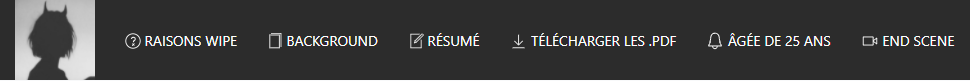
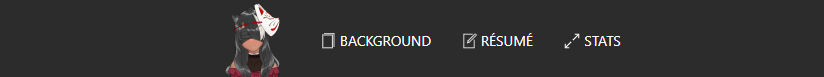
Update Alt.

Changed region(s): [[0.0, 0.0, 1.0, 1.0]]

diff --git a/index.html b/index.html
@@ -33,38 +33,20 @@
 		}
 		function dataBackground() {
 			currentURL = "/?view=background";
-			$('.data-swap').attr('src','https://docs.google.com/document/d/1q133ohRRzX3-YqD9idGtDM9sm_ifps2eFnPc_mV_Ka0/edit?usp=sharing');
+			$('.data-swap').attr('src','https://docs.google.com/document/d/1m-MmVZ6kml-2vOAQFPfzjsS22clPWGDEUk3xZhTg_T8/edit#heading=h.41pm4yap21i1');
 			window.history.pushState('background', 'Background de Mira Smejkalová', currentURL);
 			document.title = 'Background de Mira Smejkalová';
 		}
 		function dataResume() {
 			currentURL = "/?view=resume";
-			$('.data-swap').attr('src','https://docs.google.com/document/d/10tbM-yULa_7aInAmq-GIlfvZycwD9Ak0vPV-nldLTew/edit?usp=sharing');
+			$('.data-swap').attr('src','https://docs.google.com/document/d/1aFVUQ72P-MbMik5-ZvWpce86tVHiG4uZre8_BDshm5Y/edit');
 			window.history.pushState('resume', 'Résumé de Mira Smejkalová', currentURL);
 			document.title = 'Résumé de Mira Smejkalová';
 		}
-		function dataEScene() {
-			currentURL = "/?view=endscene";
-			$('.data-swap').attr('src','assets/html/endscene.html');
-			window.history.pushState('endscene', 'End Scene de Sasha Reed Messina', currentURL);
-			document.title = 'End Scene de Sasha Reed Messina';
-		}
-		function modalWipe() {
+		function modalStats() {
 			window.history.pushState('mc-modal', 'Modal: Close', currentURL);
 			setTimeout(function () {
-				window.history.pushState('mo-wipe', 'Modal: Wipe', currentURL+'&modal=wipe-1_2');
-			}, 200); // 0.20 seconds
-		}
-		function modalWipe2() {
-			window.history.pushState('mc-modal', 'Modal: Close', currentURL);
-			setTimeout(function () {
-		        window.history.pushState('mo-sasha', 'Modal: Sasha', currentURL+'&modal=wipe-2_2');
-		    }, 200); // 0.20 seconds
-		}
-		function modalDownload() {
-			window.history.pushState('mc-modal', 'Modal: Close', currentURL);
-			setTimeout(function () {
-				window.history.pushState('mo-download', 'Modal: Download', currentURL+'&modal=download');
+				window.history.pushState('mo-wipe', 'Modal: Stats', currentURL+'&modal=stats');
 			}, 200); // 0.20 seconds
 		}
 		function modalClose() {
@@ -82,9 +64,6 @@
 		} else if (getView == 'resume') {
 			document.title = 'Résumé de Mira Smejkalová';
 			currentURL = "/?view=resume";
-		} else if (getView == 'endscene') {
-			document.title = 'End Scene de Sasha Reed Messina';
-			currentURL = "/?view=endscene";
 		} else {
 			document.title = 'Introduction - Mira Smejkalová';
 			currentURL = "/?view=intro";
@@ -110,46 +89,33 @@
 </head>
 <body onload="itsHRP();">
 <nav class="uk-navbar-container uk-margin" style="background-color:#2c2c2c;color:white!important;" uk-navbar>
-    <div class="uk-navbar-left">
-        <a title="Retournez a l'introduction" uk-tooltip="title: Retournez a l'introduction" class="uk-navbar-item uk-logo" class="intro" onclick="dataIntro();">
-        	<img src="assets/img/986b62020ec24a66c083ae9bdff0d90f.jpg" alt="logo" width="80" height="80" draggable="false">
-        </a>
-        <ul class="uk-navbar-nav">
-            <li>
-	            <a title='Raisons de la demande de WIPE' uk-tooltip='title: Raisons de la demande de WIPE' rel="noopener" href="#wipe-1_2" onclick="modalWipe();" uk-toggle>
-	            	<span class="small-mtop" uk-icon="icon: question; ratio: 0.8"></span>
-					Raisons WIPE
-				</a>
-	        </li>
-	        <li>
-	            <a title='Background en entier' uk-tooltip='title: Background en entier' class="background" onclick="dataBackground();">
-	            	<span class="small-mtop" uk-icon="icon: copy; ratio: 0.8"></span>
-	            	Background
-	            </a>
-	        </li>
-	        <li>
-	            <a title='Résumé du background' uk-tooltip='title: Résumé du background' class="resume" onclick="dataResume();">
-	            	<span class="small-mtop" uk-icon="icon: file-edit; ratio: 0.8"></span>
-	            	Résumé
-	            </a>
-	        </li>
-	        <li>
-	            <a title='Télécharger les .PDF en entier' uk-tooltip='title: Télécharger les .PDF en entier' rel="noopener" href="#download" onclick="modalDownload();" uk-toggle>
-	            	<span class="small-mtop" uk-icon="icon: download; ratio: 0.9"></span>
-	            	Télécharger les .PDF
-	            </a>
-	        </li>
-	        <li id="auto.yearsOld">
-	            {{ auto.yearsOld }}
-	        </li>
-	        <li>
-	            <a title='Scène RP de fin' uk-tooltip='title: Scène RP de fin' class="endscene" onclick="dataEScene();">
-	            	<span class="small-mtop" uk-icon="icon: video-camera; ratio: 0.9"></span>
-	            	End Scene
-	            </a>
-	        </li>
-        </ul>
-    </div>
+	<div class="uk-navbar-center">
+	    <div class="uk-navbar-left">
+	        <a title="Retournez a l'introduction" uk-tooltip="title: Retournez a l'introduction" class="uk-navbar-item uk-logo" class="intro" onclick="dataIntro();">
+	        	<img src="assets/img/407340_rMT08u60.png" alt="logo" width="80" height="80" draggable="false" style="margin-top:2px;">
+	        </a>
+	        <ul class="uk-navbar-nav">
+		        <li>
+		            <a title='Background en entier' uk-tooltip='title: Background en entier' class="background" onclick="dataBackground();">
+		            	<span class="small-mtop" uk-icon="icon: copy; ratio: 0.8"></span>
+		            	Background
+		            </a>
+		        </li>
+		        <li>
+		            <a title='Résumé du background' uk-tooltip='title: Résumé du background' class="resume" onclick="dataResume();">
+		            	<span class="small-mtop" uk-icon="icon: file-edit; ratio: 0.8"></span>
+		            	Résumé
+		            </a>
+		        </li>
+		        <li>
+		            <a title='Quelques Stats (Âge, ...)' uk-tooltip='title: Quelques Stats (Âge, ...)' class="stats" href="#stats" onclick="modalStats();" uk-toggle>
+		            	<span class="small-mtop" uk-icon="icon: expand; ratio: 0.9"></span>
+		            	Stats
+		            </a>
+		        </li>
+	        </ul>
+	    </div>
+	</div>
 </nav>
 
 
@@ -160,94 +126,41 @@
   Si tu n'arrives pas à charger l'iFrame cela est sûrement à cause de ton navigateur, met le à jour! :)
 </iframe>
 
-<div id="wipe-1_2" class="uk-flex-top" onclick="modalClose();" uk-modal>
-    <div class="uk-modal-dialog uk-modal-body uk-margin-auto-vertical"style="margin: 0px 21.3%!important;width: 1000px!important;margin-top: auto!important;margin-bottom: auto!important;">
-    	<button class="uk-modal-close-default" onclick="modalClose();" type="button" uk-close></button>
-    	<span onclick="modalWipe();">
-	        <h2 class="uk-modal-title">Les raisons de la demande de WIPE</h2>
-	        <p>Comme vous le savez peut-être, j'avais fait une demande de WIPE le <b>22 août à 06h40</b> <i>(<a href="assets/img/wipeforSasha.jpg" title="Voir le screen de la demande" uk-tooltip='title: Voir le screen de la demande' target="_blank" rel="noopener nofollow">screen</a>)</i> <b>finalisé à 17h30</b> <i>(<a href="assets/img/wipeforSasha_2.png" title="Voir le screen de la finalisation" uk-tooltip='title: Voir le screen de la finalisation' target="_blank" rel="noopener nofollow">screen</a>)</i>, <i>(<span id="auto.wipeTime">{{ auto.wipeTime }}</span>)</i> néanmoins, ce dernier n'as peut-être pas était aussi "bien" comme choix que prévu. <br> C'est pour cela que désormais, je refais une demande et vous donne les raisons reliées a cette dernière.</p>
-	        <p><b>Pour revenir un instant sur le WIPE de Cateleya Cortes</b>, il faut savoir que <b>je n'ai techniquement jamais joué avec</b> et fait de scène donc de mon côté personnellement, <b>je ne considère pas que ce personnage est existé</b> est donc que finalement plutôt qu'une WIPE <b>cela était plus un changement de premier personnage</b> qui a donc était Sasha Reed Messina, mon personnage actuel.</p>
-	        <hr>
-	        <p><b>Nous pouvons donc désormais passer réellement aux raisons</b> me poussant a abandonné le personnage de Sasha Reed Messina <b>qui était censé avoir un lien</b> avec Alexander Reed en tant que "demi-sœur".</p>
-	        <p>Dans un premier temps, comme vous le savez si vous avez vu le <a href="https://r0leplay.github.io/bg/pdf/REED.MESSINA_Sasha.pdf" target="_blank" rel="noopener nofollow" title="Voir le background de Sasha" uk-tooltip='title: Voir le background de Sasha'>background de Sasha</a> <b>normalement cette dernière devait avoir un potentiel futur relation avec Alexander Reed</b> (KSJ) <b>néanmoins ce dernier a décidé d'être distant dans un premier temps</b> ce qui au début était totalement compréhensible par le "choc" de découvrir d'avoir une demi-sœur, mais malheureusement, il n'y a pas eux aucune évolution de proximité, malgré mes demandes pour qu'il parte du service, de venir en PR avec moi et autres, <b>dans un second temps, nous avions même plus de Bonjour ou autres</b>, même en passant à côté moi, <b>en répondant même que très rarement en terme professionnel également</b>.</p>
-	        <p><b>Rien qu'avec cela vous pouvez comprendre que les envies de Sasha de rester spécialement a Los Santos</b> alors qu'elle aurait préféré commencé par New York ou d'autres villes de ce genre, sachant qu'elle venait à Los Santos uniquement pour son demi-frère est bien... Cette envie <b>s'est donc totalement dissipée et désormais, elle n'a plus envie de rester</b>.</p>
-	        <p>De plus, <b>elle n'as donc aucune attache a Los Santos est désormais avec la relation qui existe avec le demi-frère qui est d'inconnu</b> (sous son ressenti) <b>elle a justement une impression de solitude</b> malheureusement, <b>même si elle arrivait à parler à 2/3 agent(e)s qu'elle appréciée</b> cela était uniquement des collègues et avant de partir elle a légué la PR à son collègue à qui elle avait le plus confiance est le sentais le plus apte: 36.</p>
-	    </span>
-        <p class="uk-text-right">
-            <a title='Savoir la Situation, Scènes, etc...' uk-tooltip='title: Savoir la Situation, Scènes, etc...' href="#wipe-2_2" onclick="modalWipe2();" class="uk-button uk-button-default" uk-toggle>Savoir la Situation, Scènes, etc...</a>
-            <a title='Savoir la Situation, Scènes, etc...' uk-tooltip='title: Savoir la Situation, Scènes, etc...' href="#wipe-2_2" onclick="modalWipe2();" class="uk-button uk-button-default" uk-toggle><span uk-icon="forward"></span></a>
-        </p>
-    </div>
-</div>
-<div id="wipe-2_2" class="uk-flex-top" onclick="modalClose();" uk-modal>
-    <div class="uk-modal-dialog uk-modal-body uk-margin-auto-vertical" style="margin: 0px 21.3%!important;width: 1000px!important;margin-top: auto!important;margin-bottom: auto!important;">
-    	<button class="uk-modal-close-default" onclick="modalClose();" type="button" uk-close></button>
-    	<span onclick="modalWipe2();">
-	        <h2 class="uk-modal-title">Savoir la Situation, Scènes, etc...</h2>
-	        <h4 style="margin-bottom: -20px;">Au niveau des scènes</h4>
-	        <p>- Police: Elle a déposé sa plaque officiellement & les scènes sont finis, <br>
-	           - Civil: Elle a finis toute ses scènes.</p>
-	        <h4 style="margin-bottom: -20px;margin-top: -15px;">Au niveau de la situation</h4>
-	        <p>- Argent: Aucun dons d'argent n'as été fait (l'argent mis dans le compte est le salaire).</p>
-	        <h4 style="margin-bottom: -20px;margin-top: -15px;">Respect des conditions</h4>
-	        <p>- Si vous vous retrouvez bloqué en RP: <br> Oui, du au fait d'être sans rien hormis la PR mais rien avance pour les raisons juste avant, <br>
-	           - Vous n’appréciez plus votre RP: <br> Oui, je n'y trouve plus de réel envie pour cela que je suis de moins en moins présente hormis si on a besoin de 06, <br> 
-	           - Votre personnage n’a plus de scènes en cours: Oui, <br> 
-	           - Un dossier de wipe et un nouveau background doivent être envoyés via un ticket et validés par le staff: Si vous le voyez, Oui, <br> 
-	           - Avant un wipe votre personnage ne pourra pas avoir de legué ou cédé des biens. <br> 
-	             Et ne pourra pas placé argent ou items dans un coffre afin de le récupérer avec le nouveau personnage: Respecté, <br>
-	           - Après un wipe votre personnage ne pourra pas avoir de liens familiaux avec une personne déjà présente en ville <br> depuis plus d’une semaine: Aucun lien familiale, <br>
-	           - Donner des sommes d’argent que ce soit en virement, en cash, <br> ou autre pour des raisons “fictives” ou dont vous êtes décidataire: Respecté, <br>
-	           - Donner des objets importants de son inventaire (Armes par exemple): Respecté, <br> 
-	           - Tenter de re vendre ou changer les papiers de son véhicule: Respecté.
-	        </p>
-	    </span>
-        <p class="uk-text-right">
-            <a title='Retournez en arrière' uk-tooltip='title: Retournez en arrière' class="uk-button uk-button-default" href="#wipe-1_2" onclick="modalWipe();" uk-toggle><span uk-icon="reply"></span></a>
-            <a title='Retournez en arrière' uk-tooltip='title: Retournez en arrière' class="uk-button uk-button-default" href="#wipe-1_2" onclick="modalWipe();" uk-toggle>Retournez en arrière</a>
-        </p>
-    </div>
-</div>
-<div id="download" class="uk-flex-top" onclick="modalClose();" uk-modal>
+<div id="stats" class="uk-flex-top" onclick="modalClose();" uk-modal>
     <div class="uk-modal-dialog uk-modal-body uk-margin-auto-vertical">
     	<button class="uk-modal-close-default" onclick="modalClose();" type="button" uk-close></button>
-    	<span onclick="modalDownload();">
-	        <h2 class="uk-modal-title">Télécharger le .PDF</h2>
-	        <p>En téléchargeant le PDF vous aurais la version entière et non le résumé, de plus le PDF retire plusieurs choses du background qui sont les suivantes : <br>
-	        - GIF (Image animé) qui se bloque a la première image fixe.</p>
-	        <p>Si vous souhaitez malgré tout toujours le télécharger (déconseillé) contrairement a utilisé ce lien, vous avez les actions ci-dessous.</p>
+    	<span onclick="modalStats();">
+	        <h2 class="uk-modal-title">Statistiques</h2>
+	        <p>
+	        	<span id="auto.yearsOld">{{ auto.yearsOld }}</span> <br>
+	        	<span id="auto.startTime">{{ auto.startTime }}</span>
+	        </p>
 	    </span>
-        <p class="uk-text-right">
-            <a title='Télécharger le Résumé' uk-tooltip='title: Télécharger le Résumé' class="uk-button uk-button-default" href="/assets/pdf/resume.pdf" download>Résumé</a>
-            <a title='Télécharger le Background' uk-tooltip='title: Télécharger le Background' class="uk-button uk-button-primary" href="/assets/pdf/background.pdf" download>Background</a>
-        </p>
     </div>
 </div>
 	<script src="assets/js/uikit.min.js" defer></script>
 	<script src="assets/js/uikit-icons.min.js" defer></script>
 	<script type="text/javascript">
 		// Birth.js integrated
-		var date  = "05/04/1996";
+		var date  = "09/03/1999";
 		var birth = new Date(date);    
     	var month = Date.now() - birth.getTime();    
     	var age = new Date(month);        
     	var year = age.getUTCFullYear();   
     	var res_age = Math.abs(year - 1970); 
 
-    	const text_bornYear = ' ('+date+')';
-		const text_yearsOld = 'Âgée de '+res_age+' ans';
-		$('li[id="auto.yearsOld"]').filter(":contains('auto.yearsOld')").html("<a title='"+text_yearsOld+text_bornYear+"' uk-tooltip='title: "+text_yearsOld+text_bornYear+"; pos: bottom'><span class='small-mtop' uk-icon='icon: bell; ratio: 0.9'></span>"+text_yearsOld+"</a>");
+		$('span[id="auto.yearsOld"]').filter(":contains('auto.yearsOld')").html('Mira Smejkalová est âgée de '+res_age+' ans. ('+date+')');
 	</script>
 	<script type="text/javascript">
-		// WipeTime.js integrated
-		var ddate = "2021/08/22"; // "1629590400" // "22/08/2021"
-		var dWipe = new Date(ddate);
+		// startTime.js integrated
+		var ddate = "2021/09/23"; 
+		var dBirth = new Date(ddate);
 		var dToday = new Date();
-		var difference = dToday.getTime() - dWipe.getTime();
+		var difference = dToday.getTime() - dBirth.getTime();
 		var daysDiff = Math.ceil(difference / (1000 * 3600 * 24));
-		var WipeTime = daysDiff-1;
+		var startTime = daysDiff-1;
 
-		$('span[id="auto.wipeTime"]').filter(":contains('auto.wipeTime')").html(WipeTime+" jours écoulés depuis l'apparition de Sasha");
+		$('span[id="auto.startTime"]').filter(":contains('auto.startTime')").html(startTime+" jour(s) écoulé(s) depuis l'apparition de Mira Smejkalová. (23/09/2021)");
 	</script>
 	<script type="text/javascript">
 		// Route.js integrated

diff --git a/assets/html/intro.html b/assets/html/intro.html
@@ -15,10 +15,6 @@
 	    <span uk-icon="desktop"></span>
 	    Permet revenir sur cette page.
 	<br>
-	    <span class="uk-label uk-label-default" style="background: #2c2c2c;">Raisons WIPE</span>
-	    <span uk-icon="move"></span>
-	    Permet d'afficher un modal avec toutes les raisons faisant la demande du WIPE.
-	<br>
 	    <span class="uk-label uk-label-default" style="background: #2c2c2c;">Background</span>
 	    <span uk-icon="comments"></span>
 	    Permet de charger un <span uk-icon="google"></span>. docs du background tout en restant sur cette page.
@@ -27,17 +23,9 @@
 	    <span uk-icon="comments"></span>
 	    Permet de charger un <span uk-icon="google"></span>. docs du résumé tout en restant sur cette page.
 	<br>
-	    <span class="uk-label uk-label-default" style="background: #2c2c2c;">Télécharger les .PDF</span>
+	    <span class="uk-label uk-label-default" style="background: #2c2c2c;">Stats</span>
 	    <span uk-icon="move"></span>
-	    Permet d'afficher un modal avec la possibilité de télécharger le background/résumé.
-	<br>
-	    <span class="uk-label uk-label-default" style="background: #2c2c2c;">Âgée de 00 ans</span>
-	    <span uk-icon="pencil"></span>
-	    Simple affichage en JavaScript permettant de connaître l'âge actuel du personnage.
-	<br>
-	    <span class="uk-label uk-label-default" style="background: #2c2c2c;">End Scene</span>
-	    <span uk-icon="comments"></span>
-	    Permet de charger un un embed YouTube (mute par défaut) tout en restant sur cette page.
+	    Permet de voir un modal affichant l'âge actuel du personnage, depuis combien de temps il existe...
 	<br>
 	    <span class="uk-label uk-label-default" style="background: #2c2c2c;">Copier le lien</span>
 	    <span uk-icon="social"></span>

diff --git a/assets/html/background.html b/assets/html/background.html
@@ -1,7 +1,7 @@
 <p>Chargement...</p>
-<meta http-equiv="refresh" content="0; URL=https://docs.google.com/document/d/1q133ohRRzX3-YqD9idGtDM9sm_ifps2eFnPc_mV_Ka0/edit?usp=sharing" />
+<meta http-equiv="refresh" content="0; URL=https://docs.google.com/document/d/1m-MmVZ6kml-2vOAQFPfzjsS22clPWGDEUk3xZhTg_T8/edit#heading=h.41pm4yap21i1" />
 <script type="text/javascript">
-	var link = 'https://docs.google.com/document/d/1q133ohRRzX3-YqD9idGtDM9sm_ifps2eFnPc_mV_Ka0/edit?usp=sharing';
+	var link = 'https://docs.google.com/document/d/1m-MmVZ6kml-2vOAQFPfzjsS22clPWGDEUk3xZhTg_T8/edit#heading=h.41pm4yap21i1';
 	var seconds = 0;
 	var foo;
 	var default_seconds = seconds;

diff --git a/assets/html/resume.html b/assets/html/resume.html
@@ -1,7 +1,7 @@
 <p>Chargement...</p>
-<meta http-equiv="refresh" content="0; URL=https://docs.google.com/document/d/10tbM-yULa_7aInAmq-GIlfvZycwD9Ak0vPV-nldLTew/edit?usp=sharing" />
+<meta http-equiv="refresh" content="0; URL=https://docs.google.com/document/d/1aFVUQ72P-MbMik5-ZvWpce86tVHiG4uZre8_BDshm5Y/edit" />
 <script type="text/javascript">
-	var link = 'https://docs.google.com/document/d/10tbM-yULa_7aInAmq-GIlfvZycwD9Ak0vPV-nldLTew/edit?usp=sharing';
+	var link = 'https://docs.google.com/document/d/1aFVUQ72P-MbMik5-ZvWpce86tVHiG4uZre8_BDshm5Y/edit';
 	var seconds = 0;
 	var foo;
 	var default_seconds = seconds;
